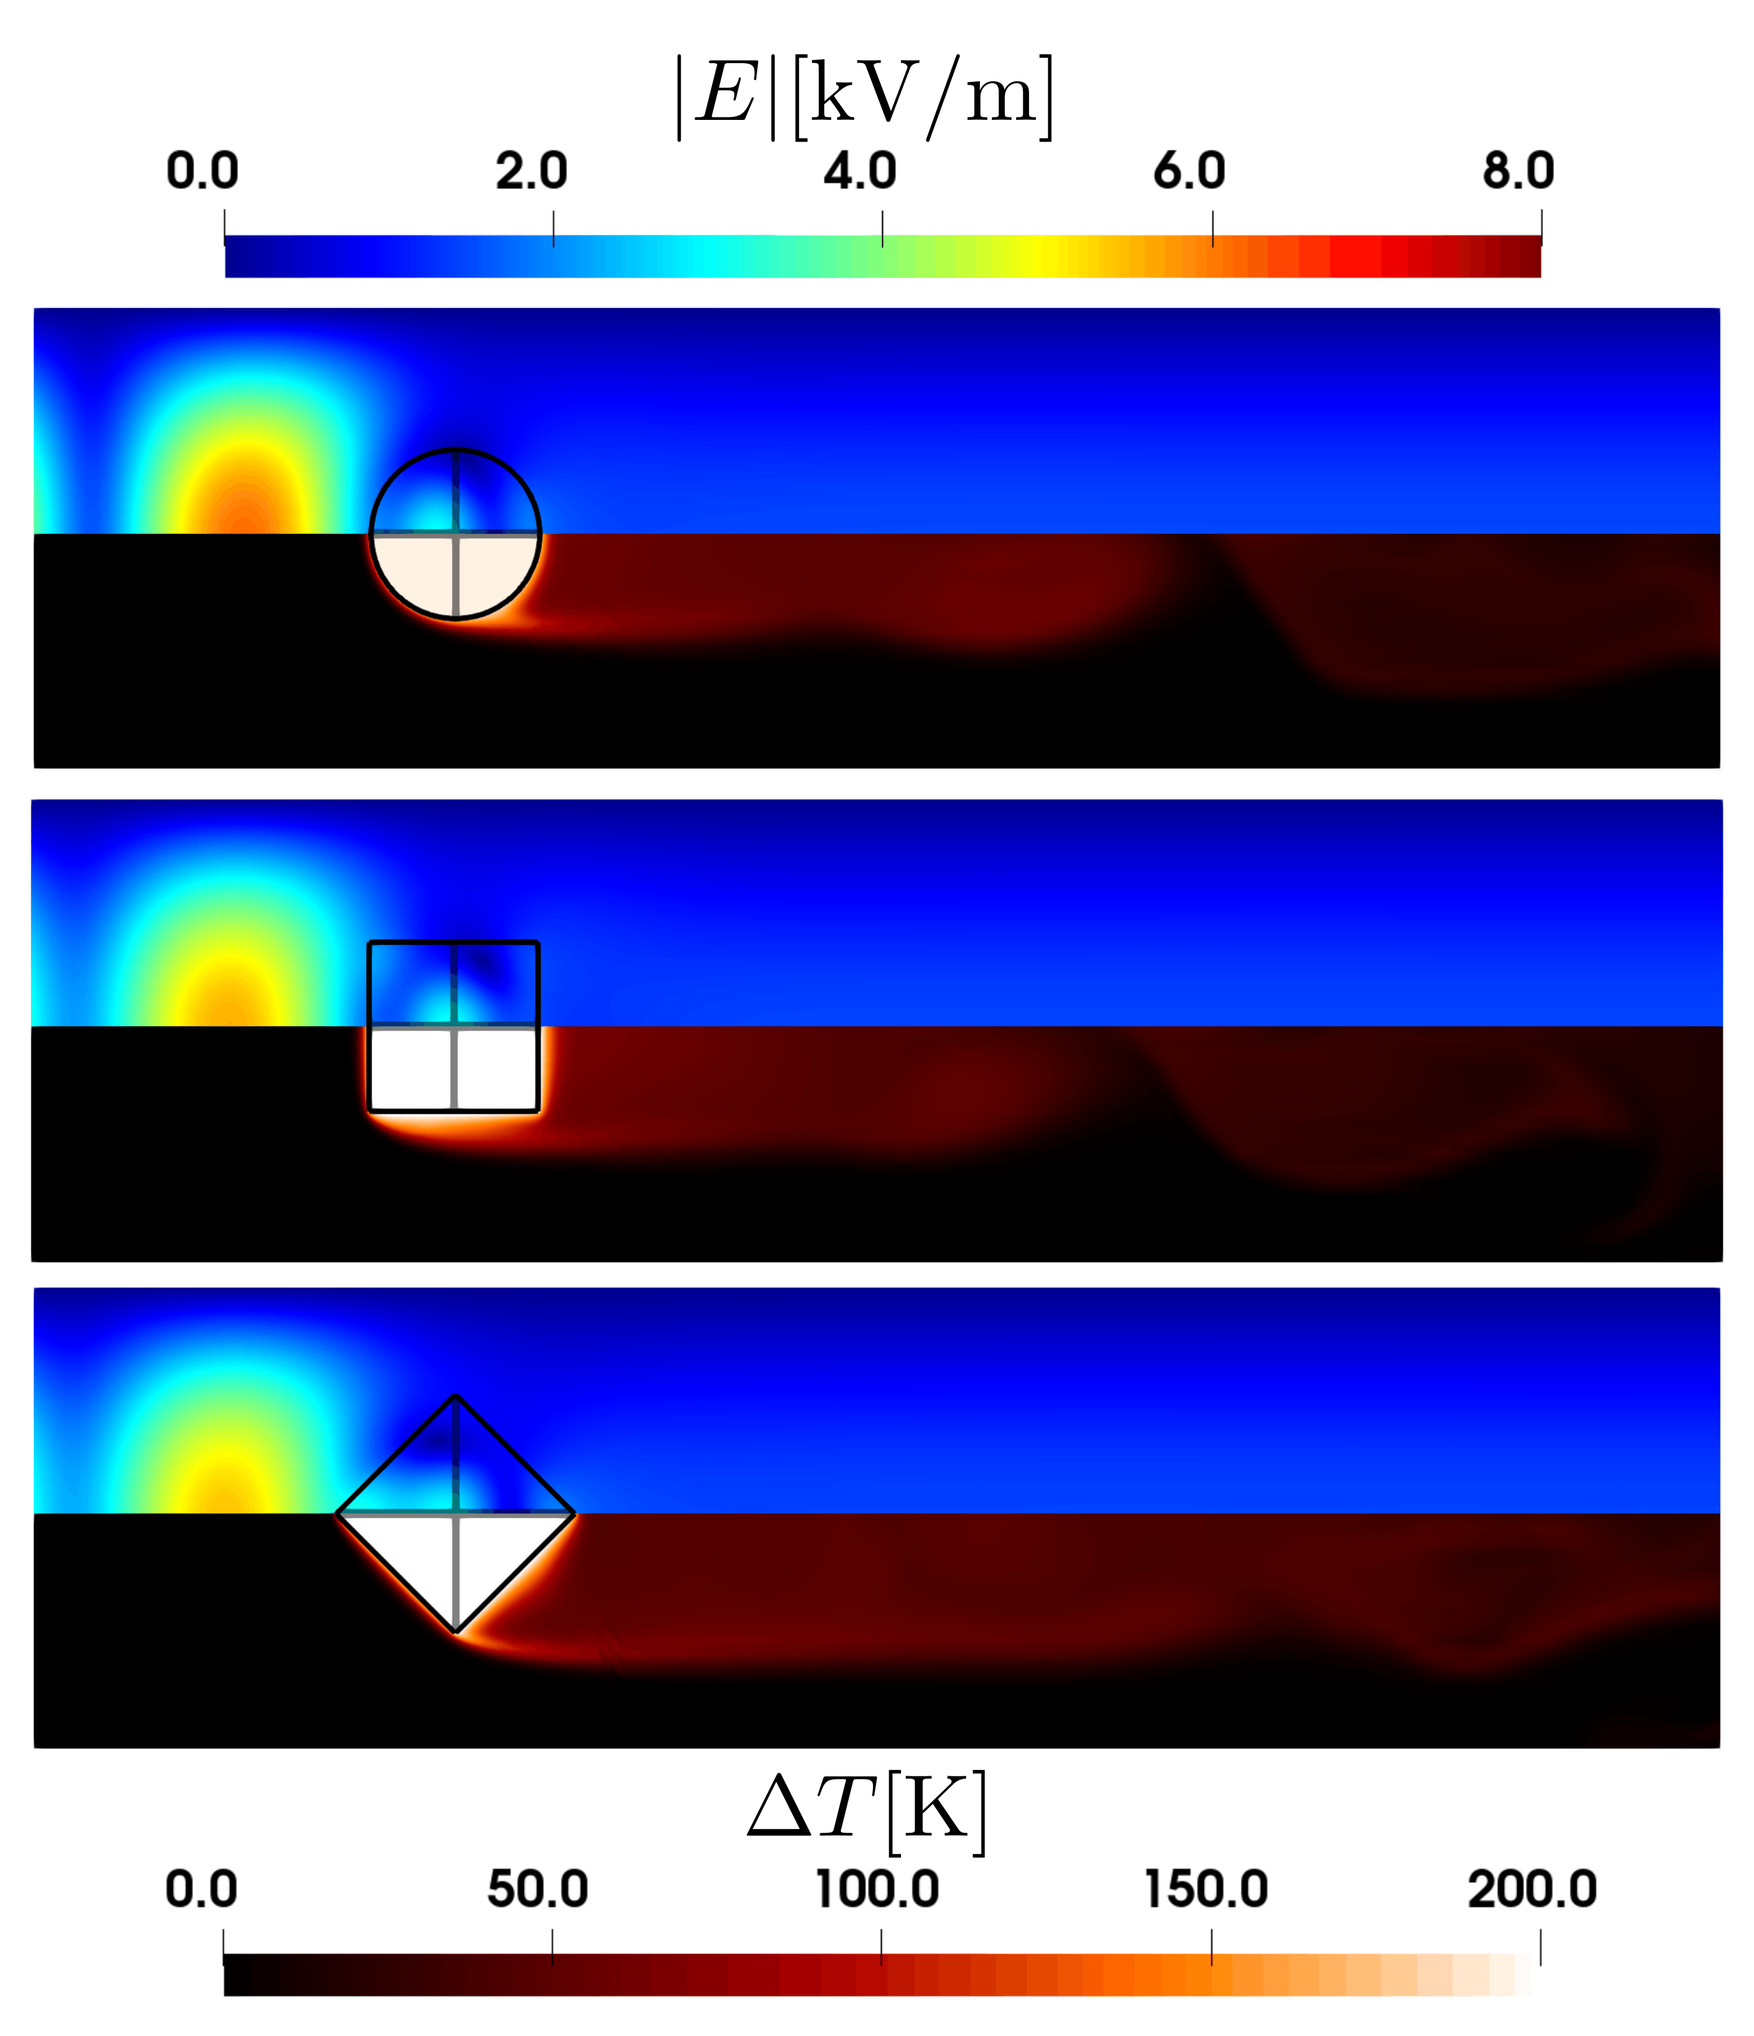
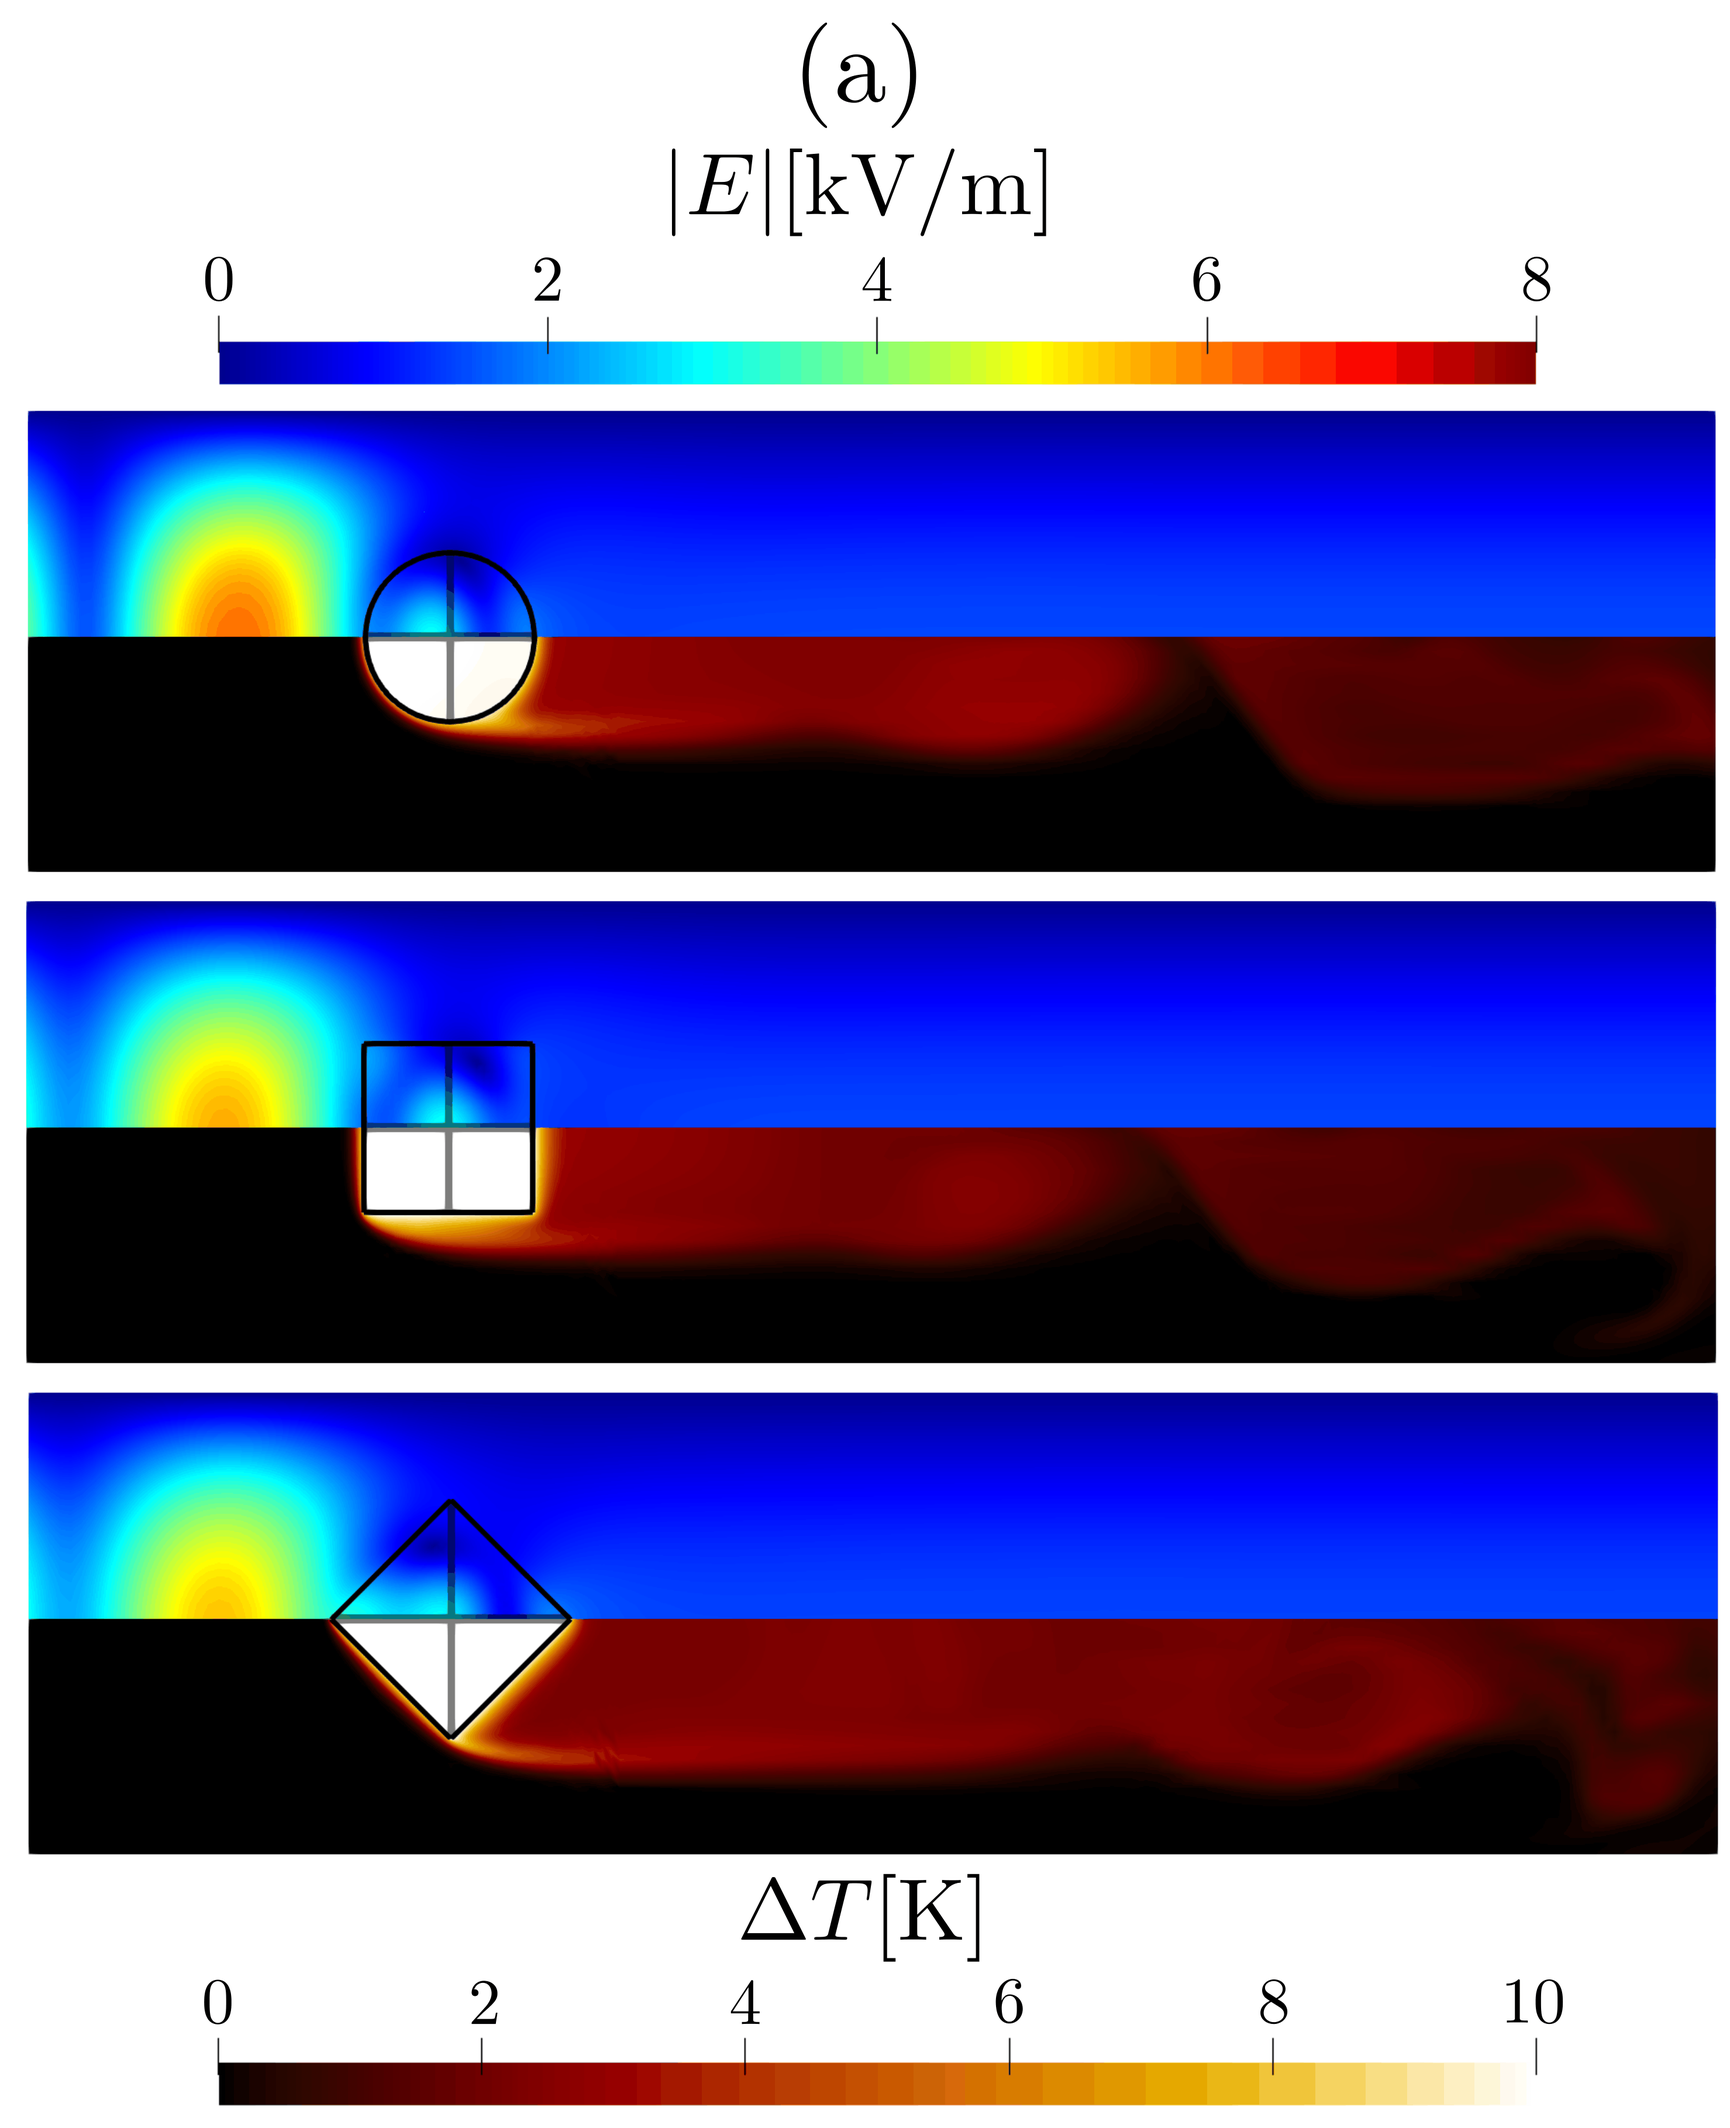
update figure

diff --git a/release_notes/current/2026_10_08_Marquis.md b/release_notes/current/2026_10_08_Marquis.md
@@ -1,4 +1,4 @@
-## [Master] - 2026/09/11
+## [Master] - 2026/10/08
 
 ### Added
 
